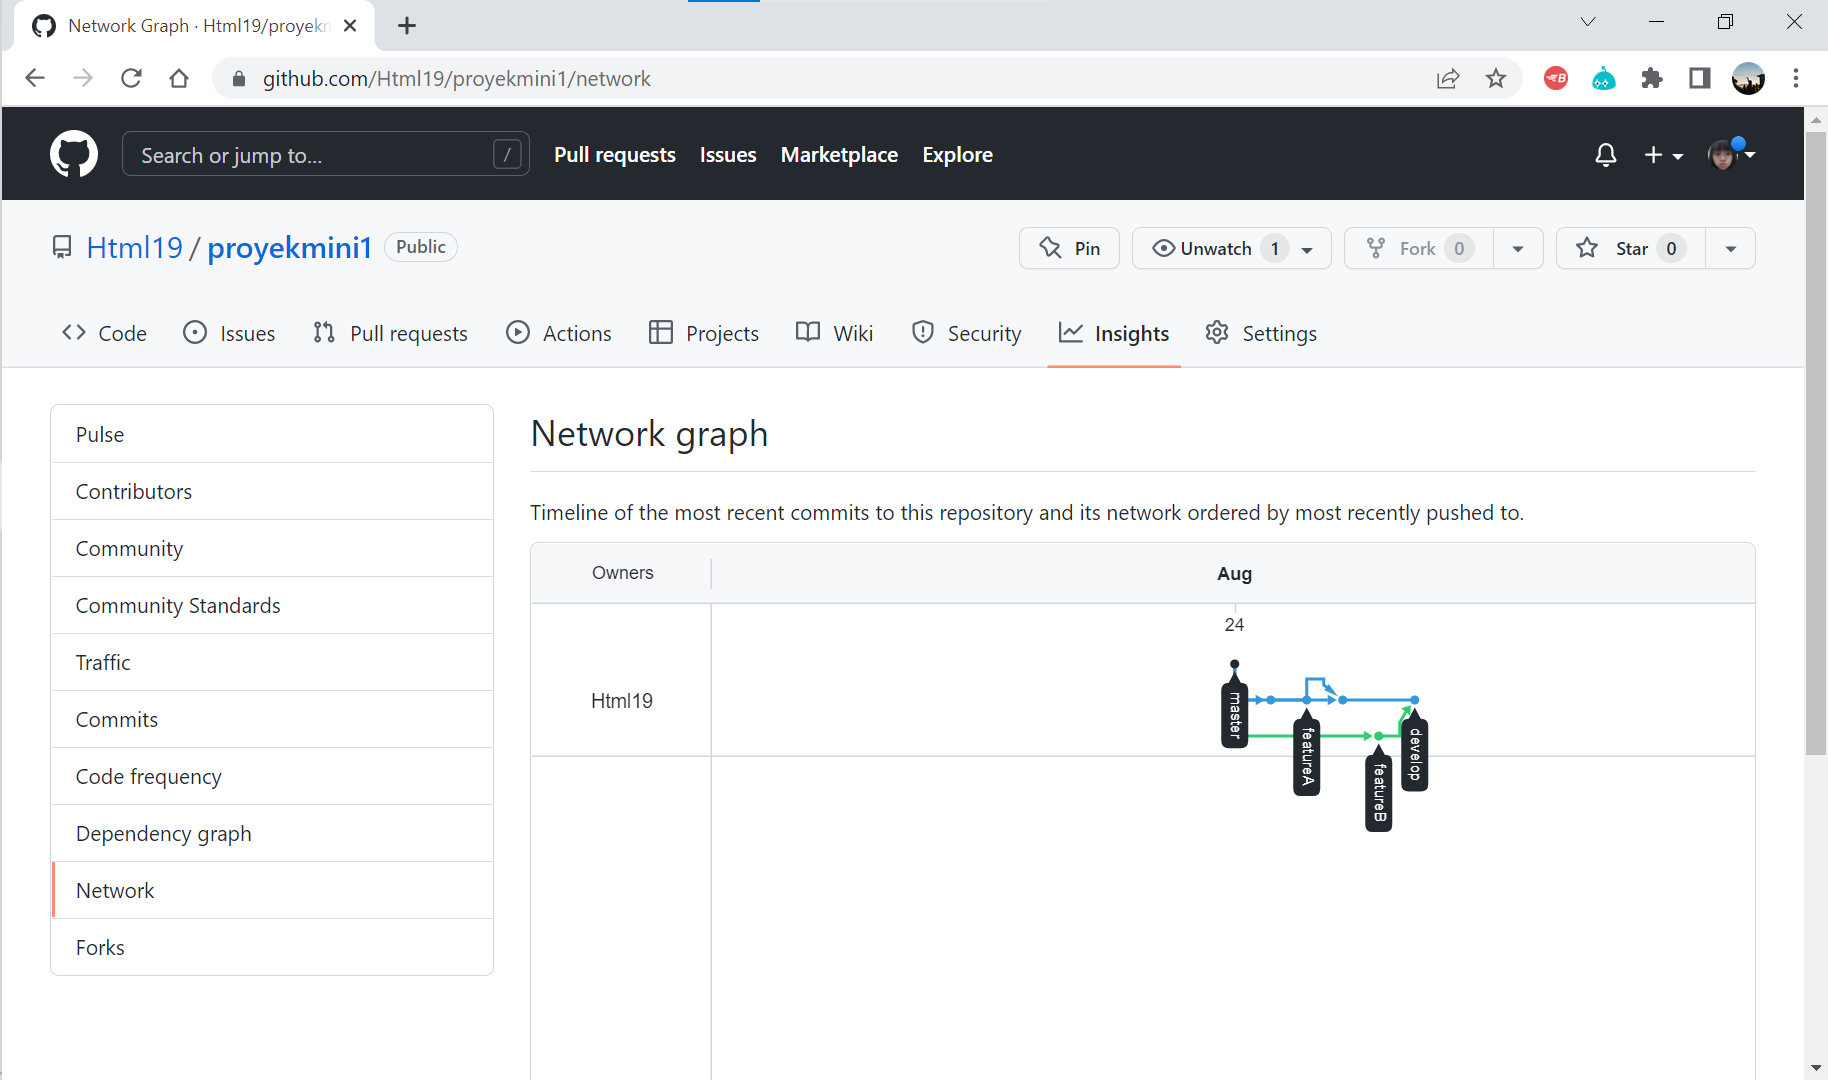
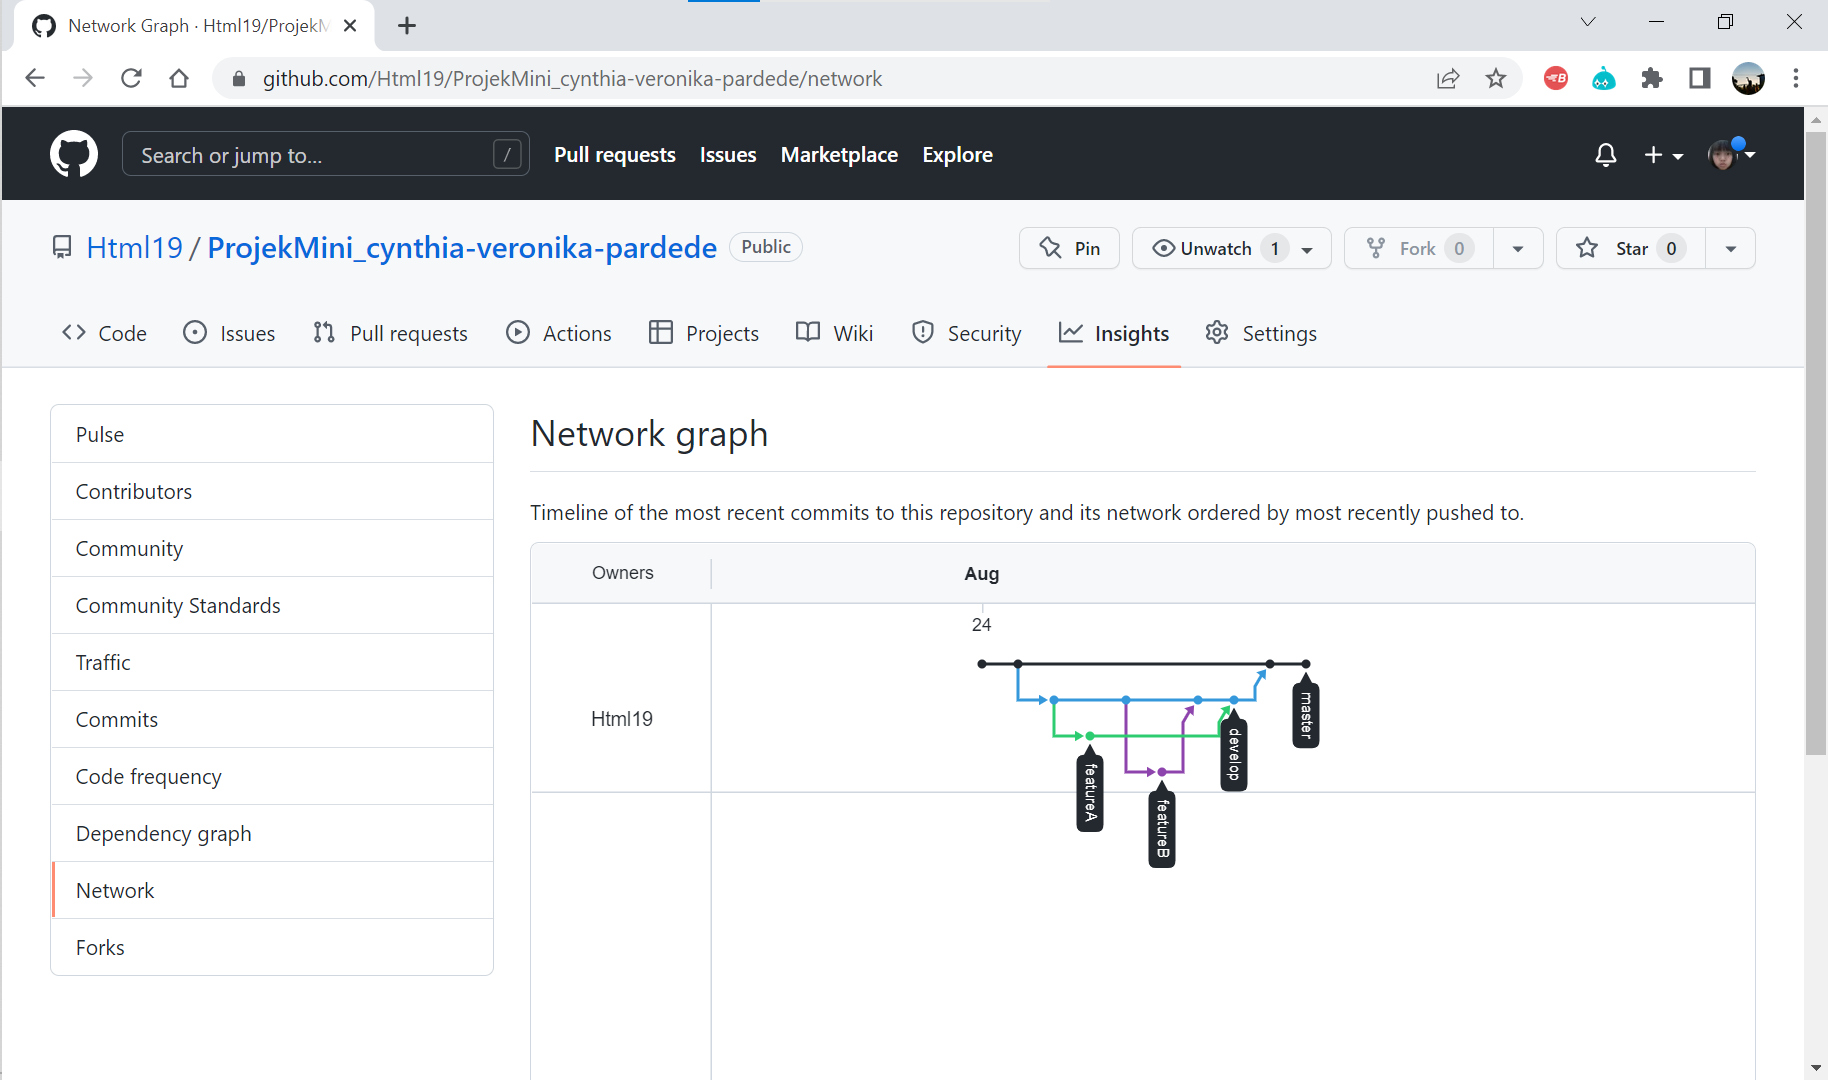
Add terbaru

diff --git a/3_Version Control With Git/praktikum/repository.md b/3_Version Control With Git/praktikum/repository.md
@@ -1,4 +1,4 @@
 # qe_cynthia-veronika-pardede
 Berikut link pengerjaan repository untuk praktikum:<br/><br/>
 
-https://github.com/Html19/proyekmini1.git
+https://github.com/Html19/ProjekMini_cynthia-veronika-pardede.git
